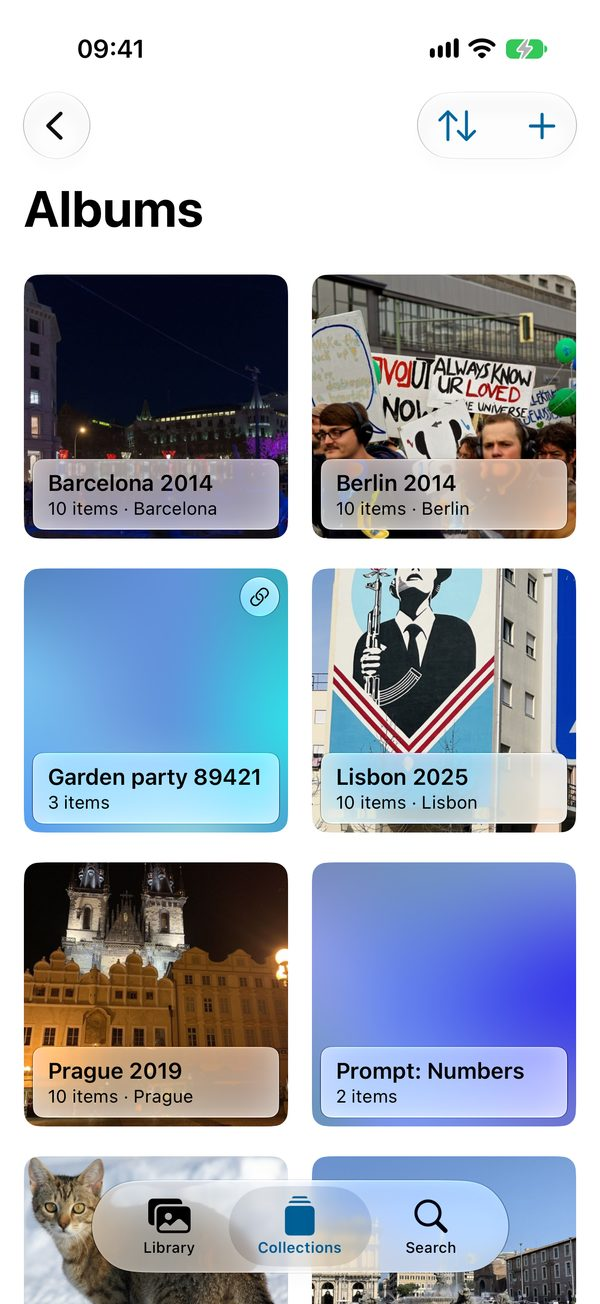
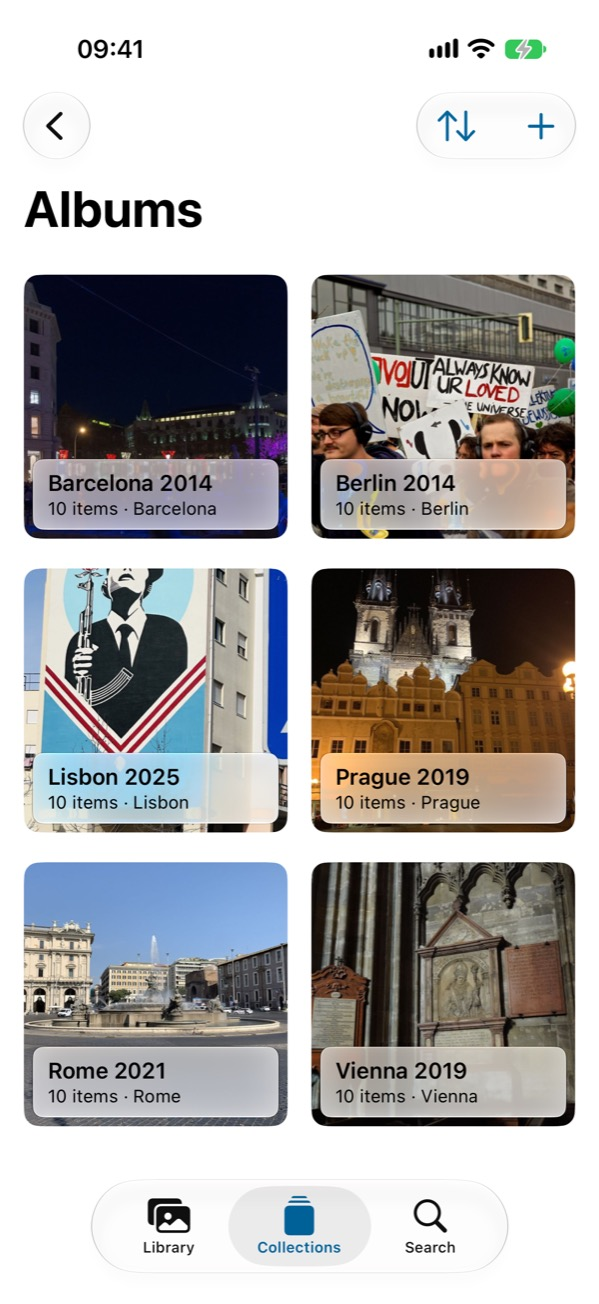
docs(readme): albums without leftover test albums; Vision Pro shows its albums

diff --git a/README.md b/README.md
@@ -168,7 +168,7 @@ Memory Room and its photos hang framed all around you.
 
 <table>
   <tr>
-    <td><img src="docs/screenshots/vision-library.jpg" width="420" alt="Apple Vision Pro: the Library window floating in a living room, with memory cards and November's photos"></td>
+    <td><img src="docs/screenshots/vision-albums.jpg" width="420" alt="Apple Vision Pro: the albums Barcelona, Berlin, Lisbon, Prague, Rome and Vienna in a window with a sidebar, floating in a living room"></td>
     <td><img src="docs/screenshots/vision-map.jpg" width="420" alt="Apple Vision Pro: the Places map in a window with a sidebar, floating in a living room"></td>
   </tr>
 </table>
